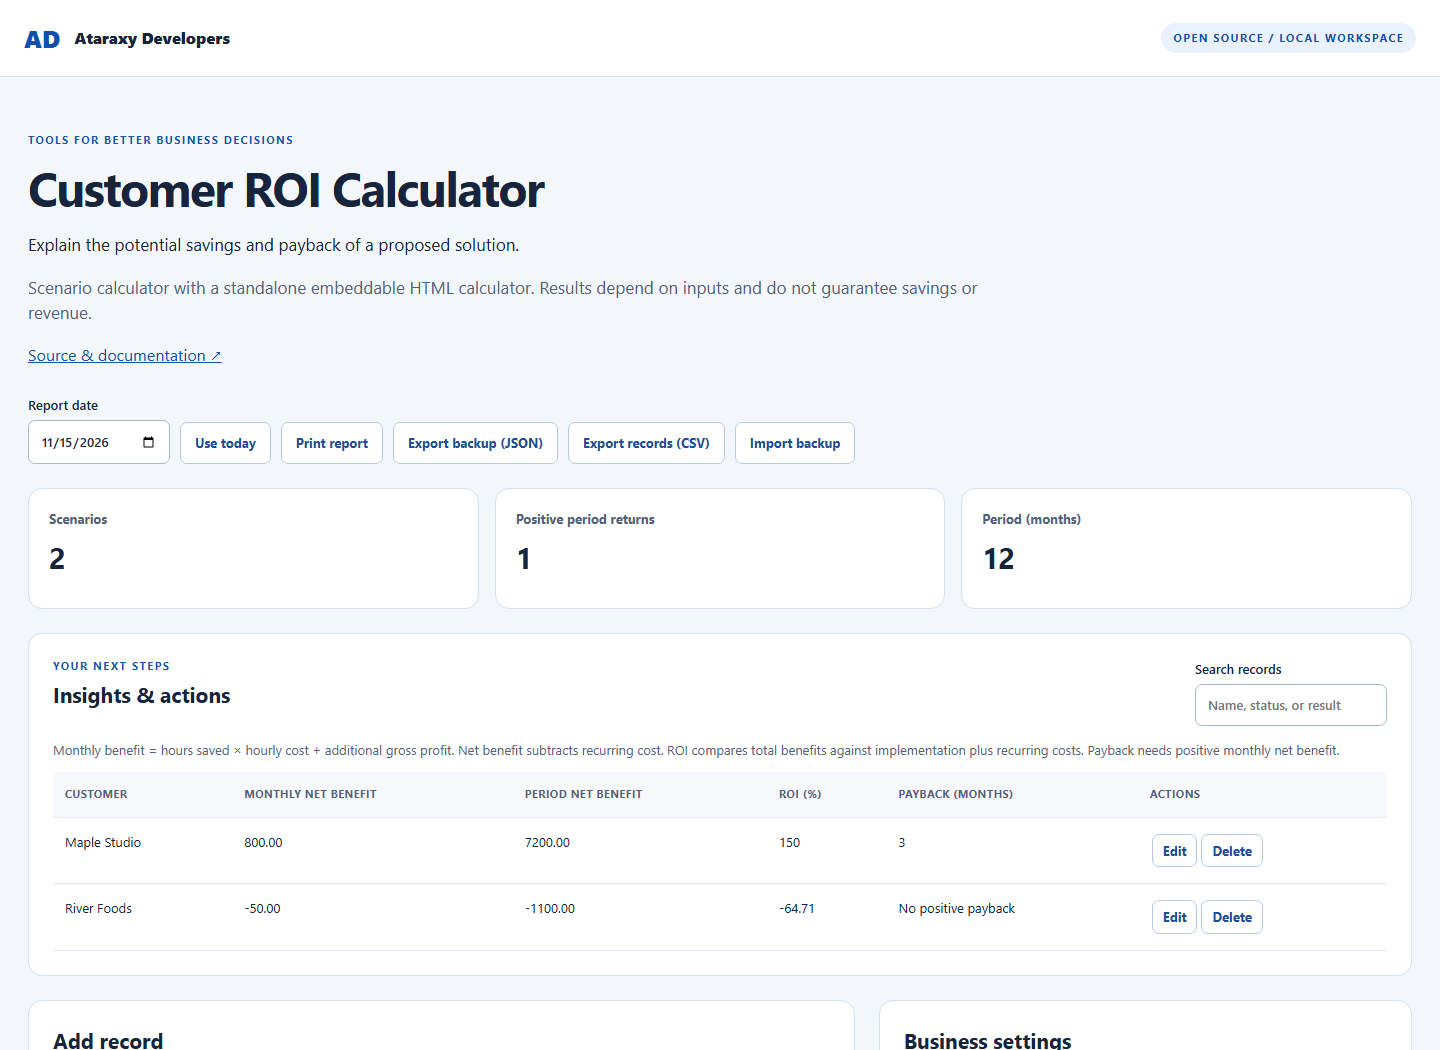
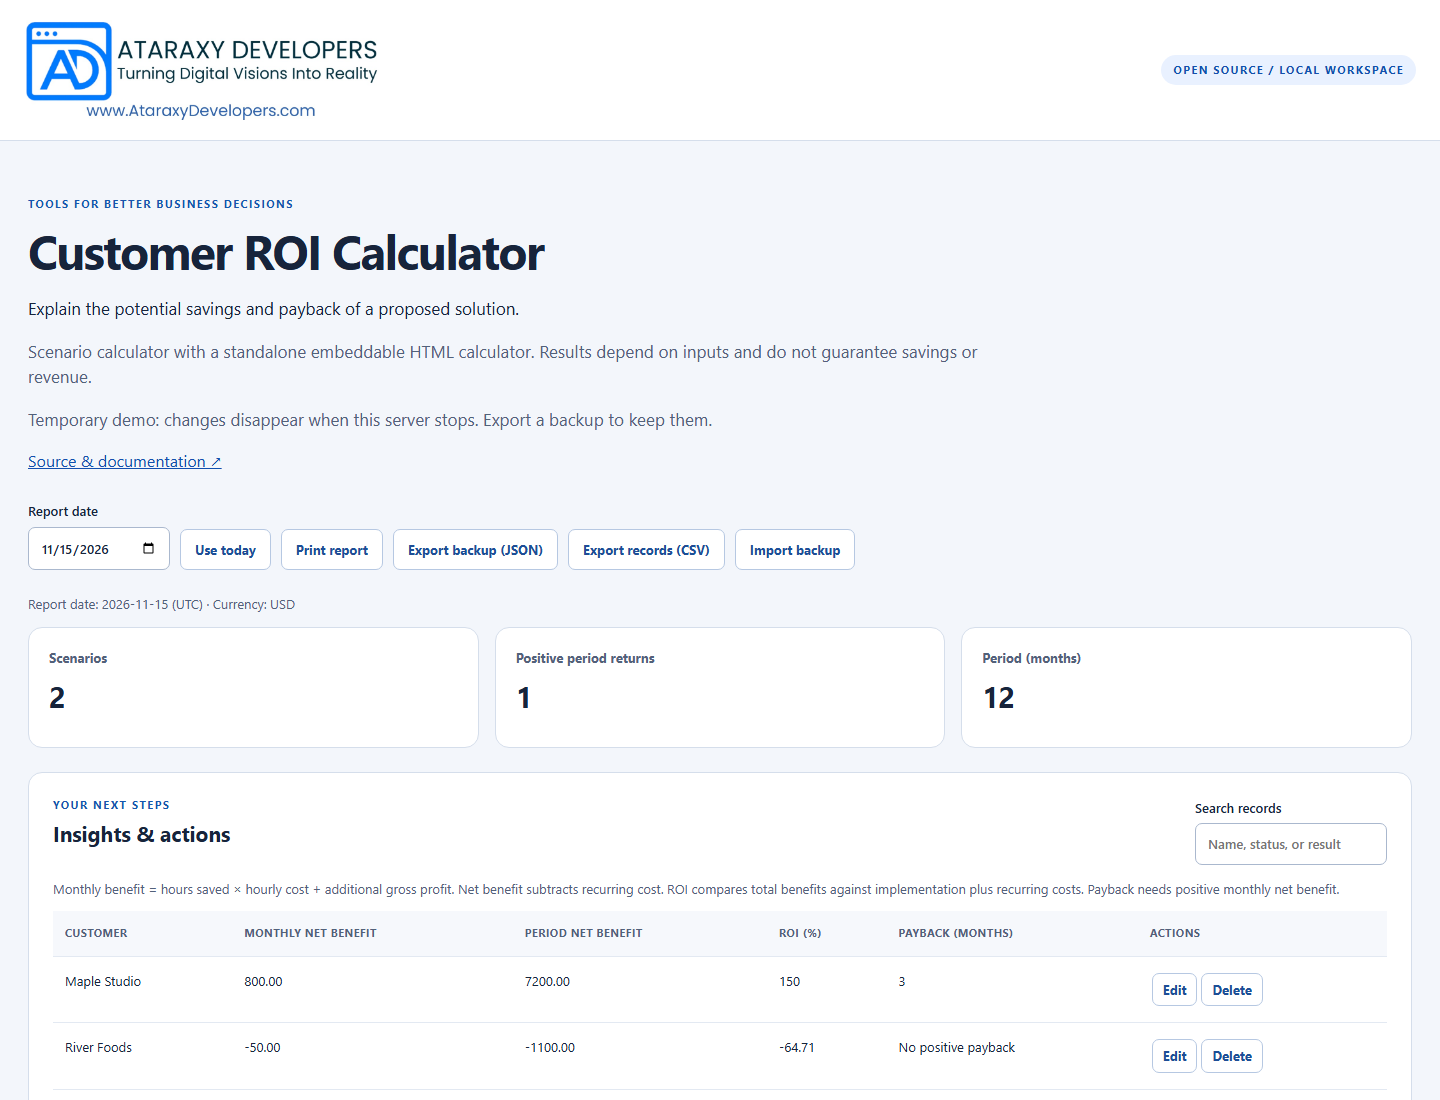
Use approved Ataraxy Developers branding

diff --git a/public/index.html b/public/index.html
@@ -4,16 +4,14 @@
     <meta charset="utf-8" />
     <meta name="viewport" content="width=device-width,initial-scale=1" />
     <title>Business workspace · Ataraxy Developers</title>
-    <link rel="icon" href="/favicon.svg" />
+    <link rel="icon" href="/ataraxy-developers-logo.png" type="image/png" />
     <link rel="stylesheet" href="/style.css" />
     <script type="module" src="/app.js"></script>
   </head>
   <body>
     <a class="skip" href="#main">Skip to workspace</a>
     <header>
-      <a class="brand" href="https://ataraxydevelopers.com"
-        >AD <span>Ataraxy Developers</span></a
-      ><span class="badge">OPEN SOURCE / LOCAL WORKSPACE</span>
+      <a class="brand" href="https://ataraxydevelopers.com"><img src="/ataraxy-developers-logo.png" alt="Ataraxy Developers — Turning Digital Visions Into Reality" width="1127" height="313" /></a><span class="badge">OPEN SOURCE / LOCAL WORKSPACE</span>
     </header>
     <main id="main">
       <section class="hero">

diff --git a/public/style.css b/public/style.css
@@ -40,10 +40,6 @@ header {
   font-weight: 800;
   text-decoration: none;
 }
-.brand span {
-  font-size: 16px;
-  color: #17243b;
-}
 .badge,
 .eyebrow {
   font-size: 11px;
@@ -364,3 +360,9 @@ footer {
     font-size: 27px;
   }
 }
+
+/* Use the complete, original company artwork without distortion. */
+header { flex-wrap: wrap; gap: 16px; background: #fff; }
+.brand { display: block; flex: 0 1 360px; min-width: 0; max-width: 100%; background: #fff; }
+.brand img { display: block; width: 360px; max-width: 100%; height: auto; }
+@media (max-width: 600px) { header { padding: 18px 20px; } .brand { flex-basis: 360px; } }

diff --git a/BRANDING.md b/BRANDING.md
@@ -1,0 +1,10 @@
+# Ataraxy Developers branding
+
+The company-approved logo is [public/ataraxy-developers-logo.png](public/ataraxy-developers-logo.png). It is the original PNG supplied by Ataraxy Developers on 2026-11-16, unchanged.
+
+- Preserve the complete artwork, its aspect ratio, and its white background.
+- Do not redraw it or substitute typed initials, an invented monogram, or generated artwork.
+- Use readable sizing and descriptive alternative text.
+- Capture screenshots from the working interface after this logo has loaded.
+
+SHA-256: 87ebc5a0092af0fff4524e805730ca3dc97c4483bd49f866528b8cdb97d422e7

diff --git a/README.md b/README.md
@@ -1,3 +1,5 @@
+<p><a href="https://ataraxydevelopers.com"><img src="public/ataraxy-developers-logo.png" alt="Ataraxy Developers — Turning Digital Visions Into Reality" width="520"></a></p>
+
 # Customer ROI Calculator
 
 [![CI](https://github.com/AtaraxyDevelopers/customer-roi-calculator/actions/workflows/ci.yml/badge.svg)](https://github.com/AtaraxyDevelopers/customer-roi-calculator/actions/workflows/ci.yml)

diff --git a/CHANGELOG.md b/CHANGELOG.md
@@ -1,5 +1,9 @@
 # Changelog
 
+## 0.1.2 — 2026-11-16
+
+Use the original, approved Ataraxy Developers logo and document its source. Update the interface and browser icon, serve the PNG correctly, and replace the README screenshot with a capture of the corrected app.
+
 ## 0.1.1
 
 - Correct optional date defaults when adding records.
